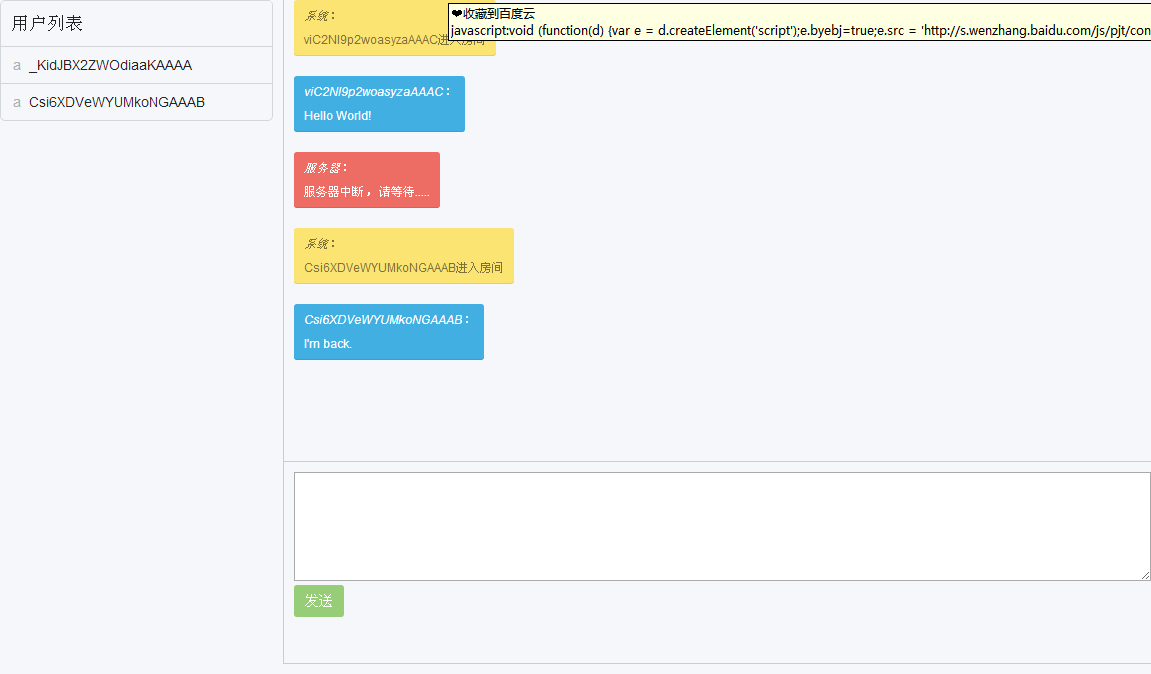
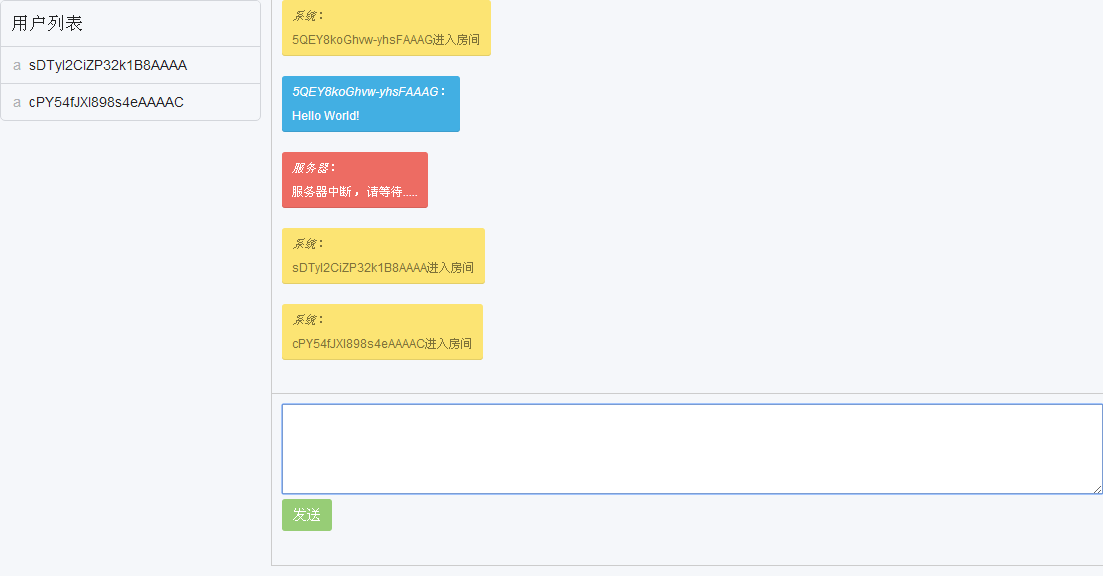
Fix FF debug and Update png

diff --git a/index.html b/index.html
@@ -66,9 +66,9 @@
             <posttext class="post-list">
             </posttext>
             <div class="column post">
-                <textarea id="postText" ng-model="postText" class="post-text"></textarea>
+                <textarea id="postText" ng-model="postText" class="post-text" ng-keyup="event=$event;postTextKeydownEvent()"></textarea>
                 <div class="post-fun">
-                    <a class="button is-success" ng-click="postSentEvent()">发送</a>
+                    <a class="button is-success" ng-click="postSentEvent(event)">发送</a>
                 </div>
             </div>
         </div>
@@ -133,12 +133,19 @@
         .controller('chatMainCtrl', ['$scope', '$interval', function($scope, $interval) {
             $scope.postText = '';
             $scope.userList = [];
+            $scope.event = this;
 
             $scope.postSentEvent = function() {
                 socket.emit('chat message', $scope.postText);
                 $scope.postText = '';
 
                 return false;
+            }
+
+            $scope.postTextKeydownEvent = function() {
+                if ($scope.event.keyCode == 13) {
+                    $scope.postSentEvent();
+                }
             }
 
             socket.on('chat message', function(msg) {
